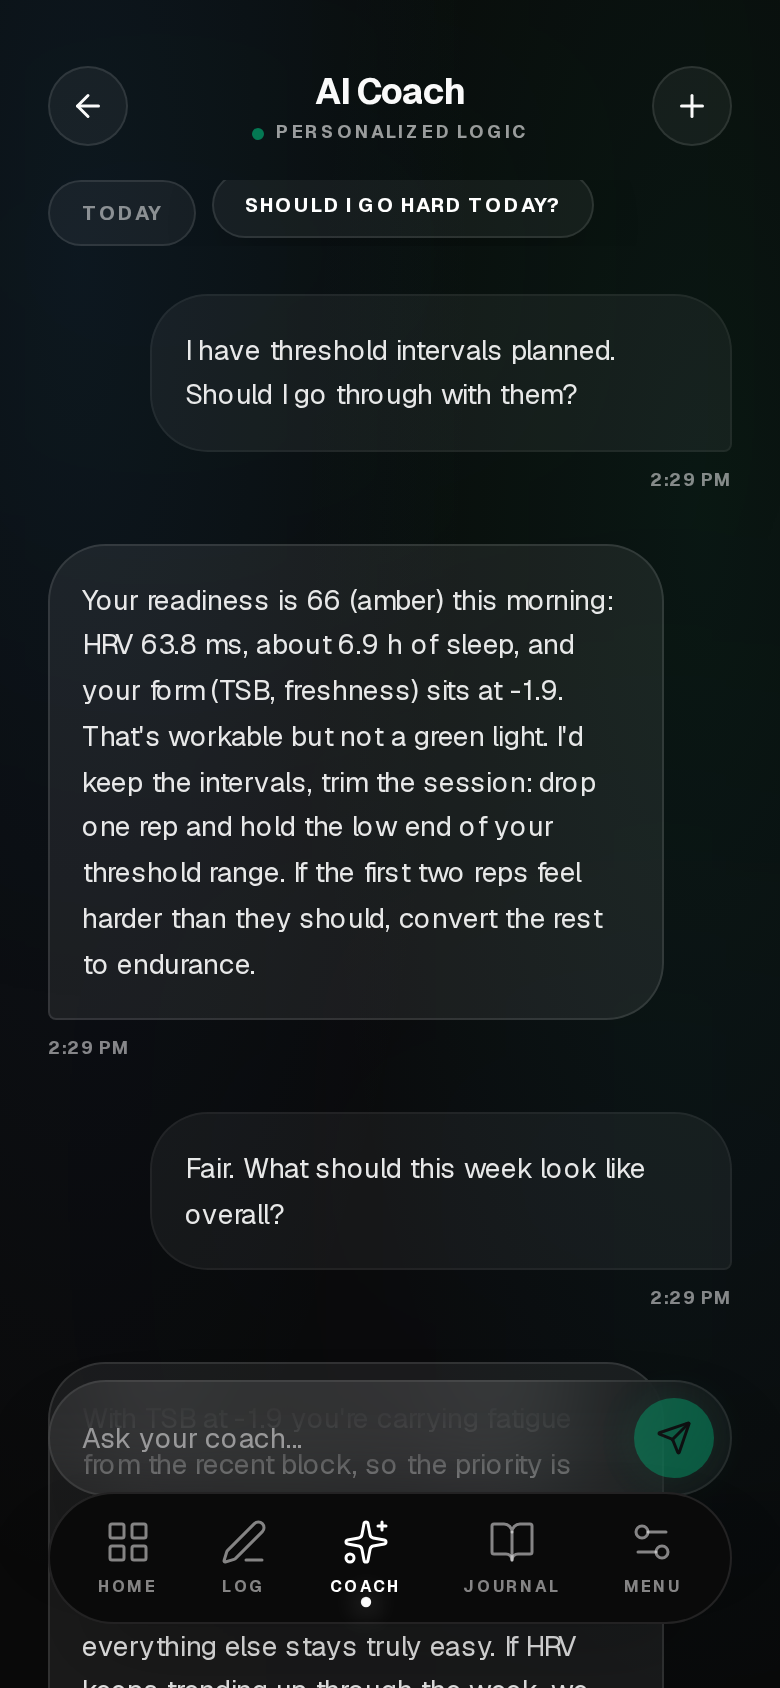
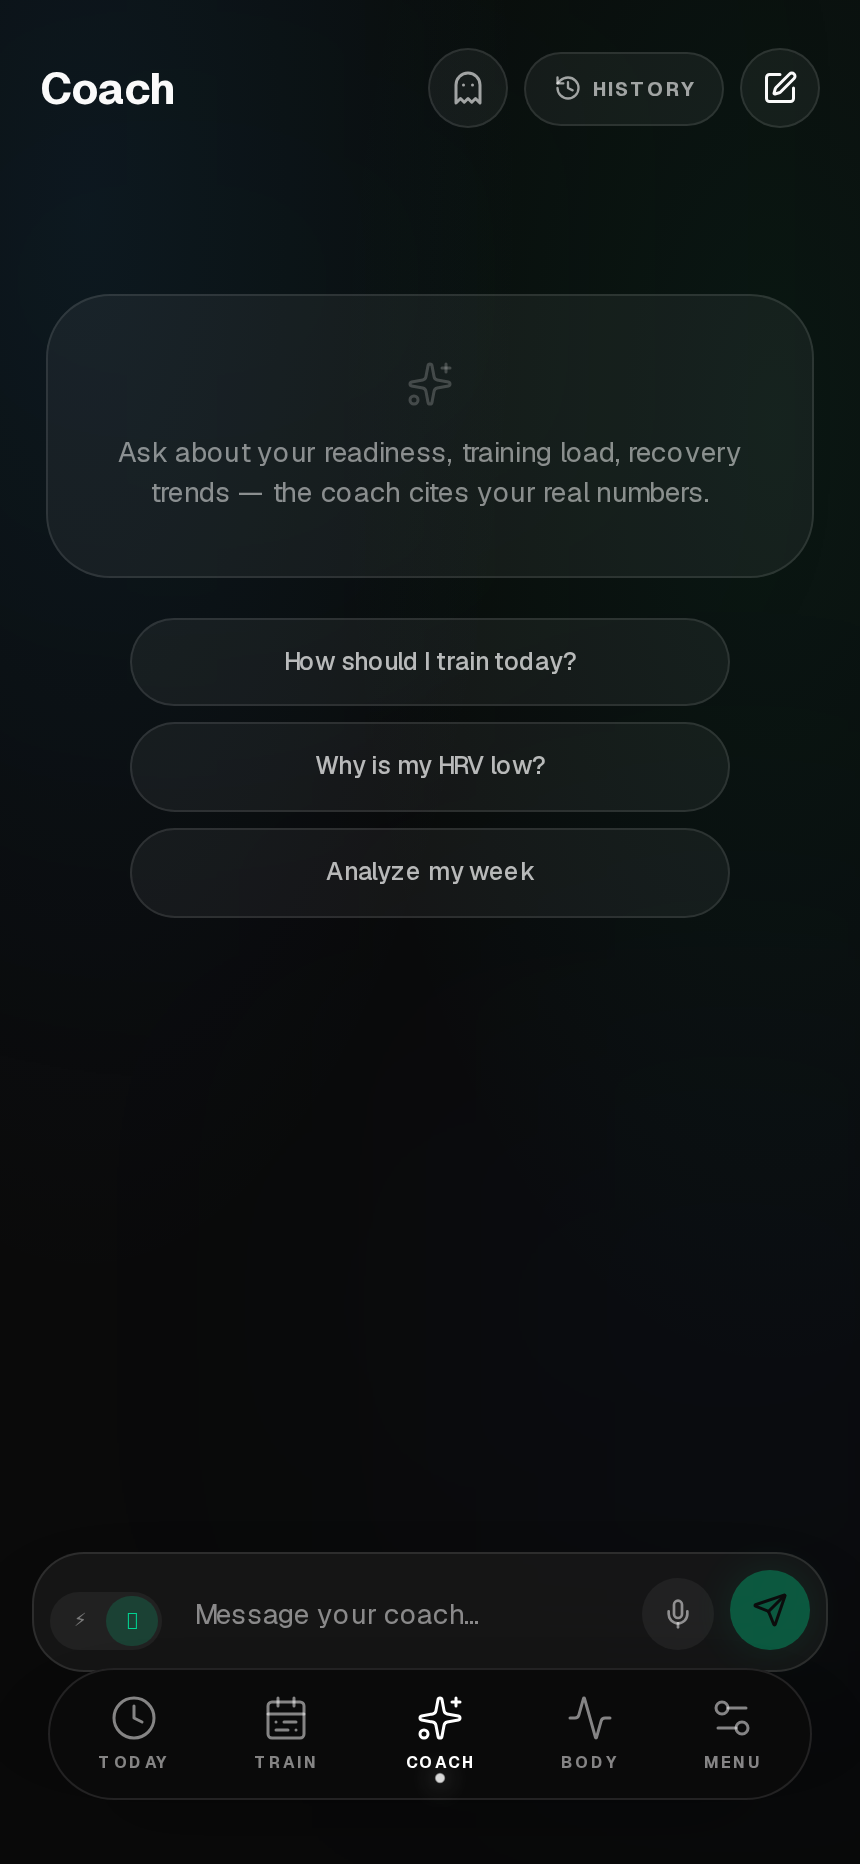
docs(readme): refresh screenshots and status for v0.23 IA redesign
The hero screenshots still showed the pre-v0.23 dashboard/log/journal
layout; captured fresh Today/Train/Coach/Body shots against the live
demo instance and brought the Status & roadmap section up to v0.25.8.

diff --git a/README.md b/README.md
@@ -13,10 +13,10 @@
 </p>
 
 <p align="center">
-  <img src="docs/screenshots/dashboard.png" width="24%" alt="Dashboard with readiness score">
-  <img src="docs/screenshots/coach.png" width="24%" alt="AI coach chat citing real metrics">
-  <img src="docs/screenshots/log.png" width="24%" alt="Performance log with training stress balance">
-  <img src="docs/screenshots/journal.png" width="24%" alt="Behavior journal with wellness sliders">
+  <img src="docs/screenshots/today.png" width="24%" alt="Today dashboard with concentric readiness rings">
+  <img src="docs/screenshots/train.png" width="24%" alt="Living week training plan with availability picker">
+  <img src="docs/screenshots/coach.png" width="24%" alt="AI coach chat with suggested prompts">
+  <img src="docs/screenshots/body.png" width="24%" alt="Body trends: HRV, resting HR, and weight vs baseline">
 </p>
 
 Recover is a health and training companion you run on your own
@@ -64,7 +64,7 @@ OpenAI-compatible endpoint including a fully local Ollama. Keys are encrypted
 - **Living week plan** — your training plan materializes into a concrete,
   adaptive week: set which days you're available, let poor readiness move or
   shrink sessions instead of pretending the plan still fits, and track
-  planned-vs-actual drift. One tap on `/plan` starts the week.
+  planned-vs-actual drift. One tap on `/train` starts the week.
 - **Race Ready** — A/B/C races are first-class, with a dashboard countdown
   card. The living week tapers automatically as race day nears (window and
   weekly load by race distance), B races get a protected pre-race ease-off,
@@ -171,7 +171,40 @@ fills a demo account with 90 days of plausible training history (see
 
 ## Status & roadmap
 
-**Current release: v0.20.0 — Final Sweep (released 2026-07-21).** The v0.9→v0.14 series made
+**Current release: v0.25.8 (released 2026-07-24).** Since v0.20.0, six more
+releases landed: **v0.21.0 Design Consistency** extended the dark-glass
+visual language to every remaining screen (concentric readiness rings,
+hairline-list settings, glass-tile dedup). **v0.23.0 IA & Navigation
+Redesign** replaced the old five-tab layout with **Today / Train / Coach /
+Body / Menu**: Today got a concentric-ring readiness hero, a 4-across vitals
+row, and a real "mark done" action; `/plan` and `/log` merged into **Train**
+(Week/History/Fitness tabs); `/journal`, `/health`, and the wellness half of
+the old log page merged into **Body** (Trends/Sleep/Journal/Labs); morning
+check-in and post-ride debrief became URL-driven bottom sheets instead of
+buried inline forms; and Coach picked up a Chat/Inbox split. **v0.24.0**
+backed VO2max on Strava descriptions with the daily wellness value instead
+of leaving it blank, and added two opt-in description fields (ride review,
+RPE/feel). **v0.25.0 Strava-Triggered Intervals Sync** added a Strava
+webhook so a finished ride pulls a fresh intervals.icu sync immediately
+instead of waiting for the next poll — then **v0.25.1–v0.25.8** shipped a
+run of fixes found by testing against the live instance rather than just
+reading the diff: the webhook route itself was unreachable (307-redirected
+before the handler ever ran) until v0.25.1; the ride-review popup never
+mounted for Strava-sourced activities (their duration is null by Strava's
+own API design) until v0.25.2; auto-describe couldn't resolve a Strava
+activity id at all (v0.25.3) and then raced ahead of debrief promotion,
+permanently burning the one-time description write (v0.25.6); deleted
+activities lingered instead of being cleaned up (v0.25.4); push
+notifications silently died from an orphaned VAPID key (v0.25.5); activity
+times were stored as local wall-clock mislabeled as UTC, root-caused and
+fixed at every affected call site rather than patched around (v0.25.7); and
+v0.25.8 added a tap-to-open availability picker for the weekly plan intake,
+raised the Apple Health ingest cap 10MB→50MB, and fixed two real rendering
+bugs (invisible weekly-load bars on Train, sync gaps compressing instead of
+showing as gaps on Body's trend charts). Full detail in
+[CHANGELOG.md](CHANGELOG.md).
+
+The v0.9→v0.14 series made
 the app honest, adaptive, and durable: v0.9.0 deleted every metric the data
 couldn't back, v0.9.2–0.9.3 turned static training plans into a living week
 that adapts to your availability and readiness, v0.9.4 added auto-tags,
